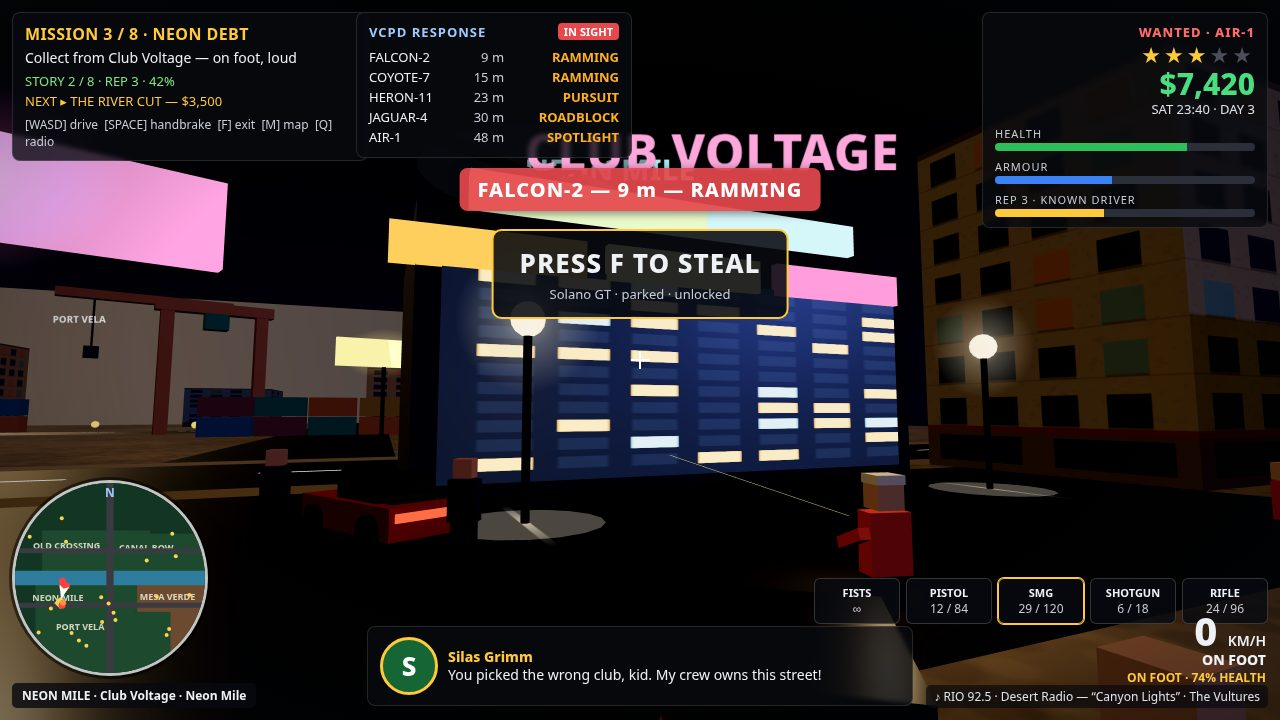
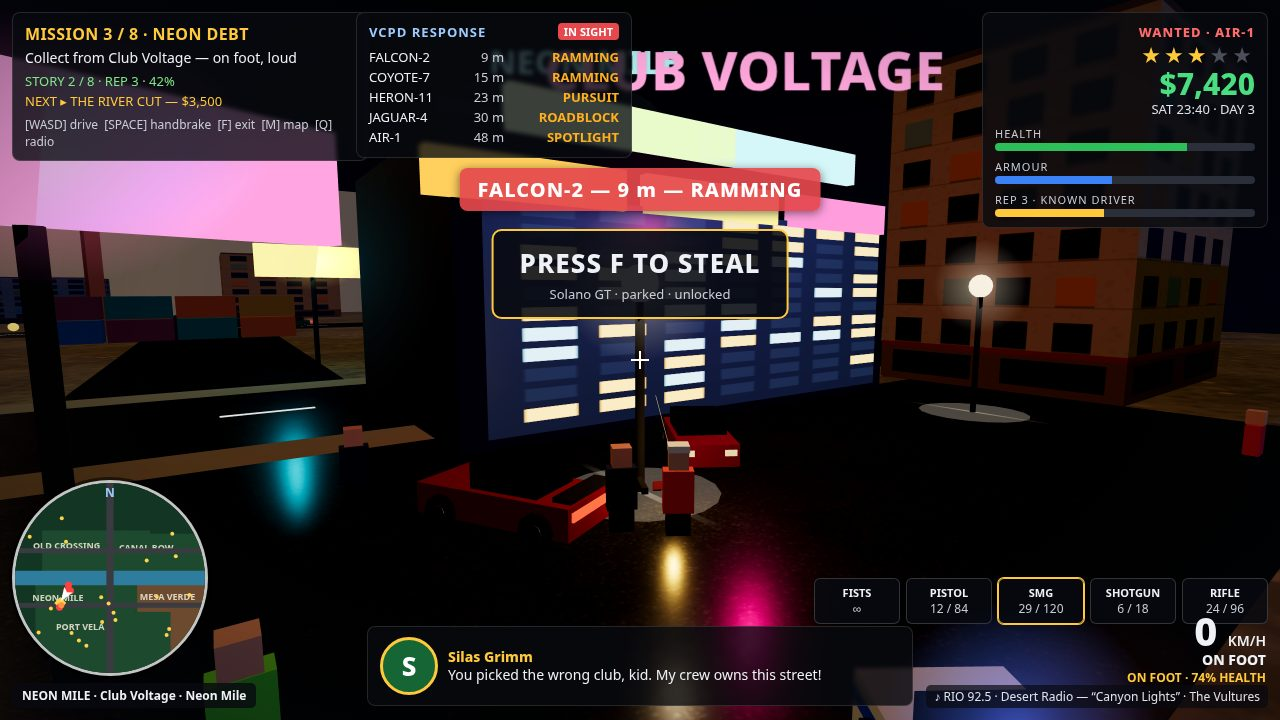
v4 visual revision — river-level wide shot, night steal re-stage, asphalt texture, glossy cars, neon spill
Shot 1 re-staged per Sonnet: low camera over the river looking west, blue
river as a leading line, bridge crossing mid-frame, downtown backdrop,
late-morning light so the water reads blue against the tan canyon
(golden hour turned it amber-brown, invisible as water).
Shot 3 re-staged: the stealable Solano GT + player fully in frame with the
CLUB VOLTAGE sign, after v3 clipped the car and v4.1 faced a canyon wall.
Realism: asphalt canvas texture on all roads (UV-tiled every 8 m), glossy
car paint + glass + hubcaps (traffic + hero Solano GT), pink/cyan neon
spill point lights at Neon Mile. Shots 2 and 4 untouched in staging.

diff --git a/game/src/shots.js b/game/src/shots.js
@@ -80,22 +80,39 @@ export function stageShot(name, G) {
   if (stealCar) stealCar.visible = false;
 
   if (name === 'wide') {
-    // 1 — WIDE ESTABLISHING: hard early-afternoon light, dust haze, the
-    // whole city in one look — canyon, bridge, port cranes, downtown, river.
-    Object.assign(save, { cash: 24680, storyDone: 2, rep: 3, repProgress: 42, health: 82, armour: 64, day: 3, weekday: 'FRI', hour: 14.5, complete: 68 });
-    G.city.setHour(14.5);
+    // 1 — WIDE ESTABLISHING, v4: low camera OVER the river looking west
+    // along the water — the river fills the foreground and works (boats,
+    // glint, bridge crossing it), downtown + sunset behind. The v3 high
+    // aerial sold a low-poly demo; the river port has to be IN the frame.
+    // v4.3: golden hour (17.0) made the water amber-brown — same colour as
+    // the walls and ground, so the river didn't read as water at all.
+    // Late morning (10.5) instead: pale-blue sky, the river runs BLUE
+    // against the tan canyon, and the sheet keeps four distinct times
+    // (morning / golden chase / neon night / blue dawn).
+    Object.assign(save, { cash: 24680, storyDone: 2, rep: 3, repProgress: 42, health: 82, armour: 64, day: 3, weekday: 'FRI', hour: 10.5, complete: 68 });
+    G.city.setHour(10.5);
     G.renderer.setExposure(1.12);
-    G.player.setMode('car', 0, -30, Math.PI / 2);
+    G.player.setMode('car', 0, 8, Math.PI);
     G.player.drive(0, 0, 0, false, G.city.colliders);
     G.wanted.setWanted(0);
     G.wanted.hideUnits(true); // no police cars parked in an establishing shot
     baseUi(G, save);
-    G.ui.location = 'VELA CRUZ · RIVERSIDE · Old Crossing';
+    G.ui.location = 'VELA CRUZ · The River · Old Crossing';
     G.ui.dialogue = { ...CHARACTERS.mara, line: 'The whole city in one look — river, bridge, port, downtown.' };
+    // v4: VCPD river boats working the water west of the bridge, wakes and
+    // all — the river has to look used, not empty.
+    // v4.5: boats at 35–55 m sit below the frame edge / behind the dialogue
+    // panel (the camera looks down 14° from y=40). At 75–95 m they land
+    // mid-water, clear of the HUD, white hulls + wakes on the blue river.
+    G.pursuitBoats.place(0, 45, -4, -Math.PI / 2);
+    G.pursuitBoats.place(1, 25, 6, -Math.PI / 2);
     stageTrafficNear(G, [[0, 60], [1, -20], [2, 120], [3, -80], [4, 30], [5, -140], [6, 80], [7, -40], [8, -10], [9, 45], [10, -120], [11, 100]], [[0, -11, -30], [1, 11, -48], [2, -11, -62], [3, 11, -20], [4, -11, 80], [5, 11, 100], [6, -11, 120], [7, 11, -100], [8, -11, -8], [9, 11, 8], [10, -11, 40], [11, 11, 60]]);
-    // v3.3: high SE camera again (v3.1 framing) — with the brighter water
-    // the river wedge past the bridge should now read.
-    cam = [60, 58, 200, -50, 2, -40];
+    // v4.2: the raised SE camera (v4.1) still hid the river — from above,
+    // the 32 m river is a thin band behind the wall + the central tower.
+    // Now the camera sits OVER the river's east end looking west: the water
+    // is a leading line down the middle of the frame, the bridge crosses it
+    // mid-frame, downtown + sunset beyond, canyon walls framing both sides.
+    cam = [120, 40, 0, -40, 0, -30];
   } else if (name === 'night') {
     // 3 — NIGHT RAIN ON FOOT: over-shoulder close at Neon Mile, wet road
     // lamp streaks, lit windows, muzzle flash, PRESS F – STEAL.
@@ -108,8 +125,8 @@ export function stageShot(name, G) {
     G.city.dust.setOn(false);
     G.city.setWet(true);
     G.traffic.setNight(true); // headlights + taillights on
-    G.player.setMode('foot', -104, 30, -0.24);
-    G.player.walk(0, 0, 0, -0.24, G.city.colliders);
+    G.player.setMode('foot', -99, 37, -0.6);
+    G.player.walk(0, 0, 0, -0.6, G.city.colliders);
     G.city.setPlayerLight(G.player.x, G.player.z); // warm light over the figure
     G.wanted.setWanted(3);
     G.wanted.setHeli(24, 14, 6); // night: heli further out, cone narrower in frame
@@ -123,13 +140,13 @@ export function stageShot(name, G) {
       stealCar = makeCarMesh(0xd94f4f);
       G.city.scene.add(stealCar);
     }
-    stealCar.position.set(-99, 0, 26);
-    stealCar.rotation.y = 2.5; // three-quarter profile to the over-shoulder camera
+    stealCar.position.set(-104, 0, 42);
+    stealCar.rotation.y = 2.6; // three-quarter front toward the camera
     stealCar.visible = true;
     stageTrafficNear(G, [[5, 20]], [[0, -118, 30], [1, -100, 24], [2, -90, 34]]);
-    // v3.2: aim right + up — the CLUB VOLTAGE sign shifts left + down in
-    // frame, clear of the VCPD panel.
-    cam = [-96, 3.4, 22, -108, 6, 50];
+    // v4.3: aim a touch higher (y=4) so the CLUB VOLTAGE sign, just above
+    // the frame edge in v4.2, reads again — the car + player stay centred.
+    cam = [-90, 6.0, 26, -100, 4, 40];
   } else if (name === 'boat') {
     // 4 — DAWN RIVER CHASE: blue-hour mist, wake + spray, bridge arches
     // overhead, pursuit boats + helicopter. Police cars stay off the water.

diff --git a/game/src/city.js b/game/src/city.js
@@ -6,7 +6,7 @@
 import * as THREE from '../vendor/three.module.min.js';
 import { WORLD, PALETTE, DISTRICTS, SHOPS, COLLECTIBLES_TOTAL } from './config.js';
 import { createSky, createWater, createRain, createDust, makeGlowTexture, makeStreakTexture } from './atmosphere.js';
-import { facadeTexture, strataTexture, groundTexture } from './textures.js';
+import { facadeTexture, strataTexture, groundTexture, asphaltTexture } from './textures.js';
 
 function box(w, h, d, color, x, y, z, opts = {}) {
   const m = new THREE.Mesh(
@@ -185,9 +185,17 @@ export function createCity(seed = 7) {
 
   // Roads: the north-south avenue (x=0) + east-west streets, with lane dashes.
   // roadMat is shared so setWet() can make every road glossy in one place.
-  const roadMat = new THREE.MeshStandardMaterial({ color: PALETTE.road, roughness: 0.95 });
+  // v4: real asphalt texture (tiled every ~8 m via UV scaling) instead of a
+  // flat grey plane — the road surface is half of every street-level frame.
+  const roadMat = new THREE.MeshStandardMaterial({ color: 0xffffff, roughness: 0.95, map: asphaltTexture() });
+  function scaleRoadUVs(geo, w, d) {
+    const uv = geo.attributes.uv;
+    for (let i = 0; i < uv.count; i += 1) uv.setXY(i, uv.getX(i) * (w / 8), uv.getY(i) * (d / 8));
+  }
   function road(w, d, x, z) {
-    const r = new THREE.Mesh(new THREE.PlaneGeometry(w, d), roadMat);
+    const geo = new THREE.PlaneGeometry(w, d);
+    scaleRoadUVs(geo, w, d);
+    const r = new THREE.Mesh(geo, roadMat);
     r.rotation.x = -Math.PI / 2; r.position.set(x, 0.06, z); r.receiveShadow = true; scene.add(r);
   }
   road(16, 420, 0, 0); road(420, 14, 0, -60); road(420, 14, 0, 60); road(420, 14, 0, 140); road(14, 420, -90, 0); road(14, 420, 90, 0);
@@ -368,7 +376,9 @@ export function createCity(seed = 7) {
   clubWindows.position.set(-110, 5, 46.8);
   clubWindows.rotation.y = Math.PI;
   scene.add(clubWindows);
-  const plaza = new THREE.Mesh(new THREE.PlaneGeometry(36, 20), roadMat);
+  const plazaGeo = new THREE.PlaneGeometry(36, 20);
+  scaleRoadUVs(plazaGeo, 36, 20);
+  const plaza = new THREE.Mesh(plazaGeo, roadMat);
   plaza.rotation.x = -Math.PI / 2; plaza.position.set(-110, 0.05, 38); plaza.receiveShadow = true;
   scene.add(plaza);
   // v3: freestanding neon billboards near the club — the night shot had one
@@ -385,6 +395,19 @@ export function createCity(seed = 7) {
   neonBoard(-88, 38, 9, 0xff2e88, 0.4);
   neonBoard(-132, 62, 8, 0x00e5ff, -0.5);
   neonBoard(-96, 74, 7, 0xffd400, 0.2);
+  // v4: neon SPILL — real coloured point lights under the signs, so the pink
+  // and cyan wash onto the club face, the parked car and the wet street
+  // instead of the signs being flat glowing rectangles in a black street.
+  const neonLights = [];
+  for (const [color, x, y, z, dist, inten] of [
+    [0xff2e88, -108, 9, 43, 36, 8],
+    [0x00e5ff, -94, 8, 72, 32, 6],
+  ]) {
+    const pl = new THREE.PointLight(color, 0, dist, 1.2);
+    pl.position.set(x, y, z);
+    scene.add(pl);
+    neonLights.push({ light: pl, on: inten });
+  }
 
   // Shops: marked buildings with floating labels.
   for (const s of SHOPS) {
@@ -560,7 +583,9 @@ export function createCity(seed = 7) {
       winMat.emissiveIntensity = night ? 1.7 : 0;
       clubWinMat.emissiveIntensity = night ? 1.7 : 0;
       for (const p of pools) p.material.opacity = night ? 0.32 : (hour >= 17.5 && hour < 19 ? 0.14 : 0);
-      playerLight.intensity = night ? 3.0 : (hour >= 17.5 && hour < 19 ? 0.7 : 0);
+      // v4: neon spill lights live only after dark (with a faint glow at dusk).
+      for (const n of neonLights) n.light.intensity = night ? n.on : (hour >= 17.5 && hour < 19 ? n.on * 0.35 : 0);
+      playerLight.intensity = night ? 4.5 : (hour >= 17.5 && hour < 19 ? 0.7 : 0);
       // Water takes the sky + sun so the river mirrors the hour.
       water.setSky(pal.fog, sky.uniforms.uSunDir.value, s2.sun);
     },

diff --git a/game/src/textures.js b/game/src/textures.js
@@ -121,10 +121,44 @@ export function strataTexture() {
 }
 
 /**
- * Ground atlas (512x512): warm dust with LARGE tonal patches (the v2 speckle
- * alone read as flat tan at distance), faint darker wear where traffic runs,
- * and pebble dots. Tiled 7x7 over the city floor.
+ * Asphalt atlas (256x256): dark grey with dense speckle, a few darker
+ * patches and faint hairline cracks, so roads read as asphalt instead of a
+ * flat grey plane. Tiled every ~8 m via UV scaling at the call site.
  */
+export function asphaltTexture() {
+  const [c, g] = canvas(256, 256);
+  g.fillStyle = '#35353b'; g.fillRect(0, 0, 256, 256);
+  // Darker worn patches.
+  for (let i = 0; i < 22; i += 1) {
+    g.fillStyle = Math.random() < 0.5 ? 'rgba(20,20,24,0.20)' : 'rgba(70,70,78,0.14)';
+    g.beginPath();
+    g.ellipse(Math.random() * 256, Math.random() * 256, 14 + Math.random() * 42, 10 + Math.random() * 30, Math.random() * 3, 0, Math.PI * 2);
+    g.fill();
+  }
+  // Dense aggregate speckle: pale stone chips + dark tar dots.
+  for (let i = 0; i < 5200; i += 1) {
+    const v = Math.random();
+    g.fillStyle = v < 0.45 ? 'rgba(150,150,160,0.20)' : v < 0.8 ? 'rgba(15,15,18,0.22)' : 'rgba(210,205,190,0.10)';
+    g.fillRect(Math.random() * 256, Math.random() * 256, 1 + Math.random() * 2, 1 + Math.random() * 2);
+  }
+  // Hairline cracks: short dark polylines.
+  for (let i = 0; i < 14; i += 1) {
+    g.strokeStyle = 'rgba(12,12,14,0.35)';
+    g.lineWidth = 1;
+    g.beginPath();
+    let x = Math.random() * 256, y = Math.random() * 256;
+    g.moveTo(x, y);
+    for (let s = 0; s < 5; s += 1) { x += (Math.random() - 0.5) * 36; y += (Math.random() - 0.5) * 36; g.lineTo(x, y); }
+    g.stroke();
+  }
+  const tex = new THREE.CanvasTexture(c);
+  tex.wrapS = THREE.RepeatWrapping;
+  tex.wrapT = THREE.RepeatWrapping;
+  tex.colorSpace = THREE.SRGBColorSpace;
+  tex.anisotropy = 4;
+  return tex;
+}
+
 export function groundTexture() {
   const [c, g] = canvas(512, 512);
   g.fillStyle = '#8a7a5e'; g.fillRect(0, 0, 512, 512);

diff --git a/game/src/traffic.js b/game/src/traffic.js
@@ -5,10 +5,12 @@ import * as THREE from '../vendor/three.module.min.js';
 
 export function makeCarMesh(color, police = false) {
   const g = new THREE.Group();
-  const bodyMat = new THREE.MeshStandardMaterial({ color, roughness: 0.5, metalness: 0.3 });
+  // v4: glossy paint (low roughness + real metalness) so traffic cars catch
+  // a sun streak instead of reading as matte boxes; glass reads as glass.
+  const bodyMat = new THREE.MeshStandardMaterial({ color, roughness: 0.28, metalness: 0.55 });
   const body = new THREE.Mesh(new THREE.BoxGeometry(2.0, 0.75, 4.4), bodyMat);
   body.position.y = 0.65; g.add(body);
-  const cabin = new THREE.Mesh(new THREE.BoxGeometry(1.7, 0.65, 2.2), new THREE.MeshStandardMaterial({ color: 0x18202e, roughness: 0.3, metalness: 0.5 }));
+  const cabin = new THREE.Mesh(new THREE.BoxGeometry(1.7, 0.65, 2.2), new THREE.MeshStandardMaterial({ color: 0x1d2733, roughness: 0.12, metalness: 0.7 }));
   cabin.position.set(0, 1.3, -0.2); g.add(cabin);
   if (police) {
     const stripe = new THREE.Mesh(new THREE.BoxGeometry(2.02, 0.2, 4.42), new THREE.MeshStandardMaterial({ color: 0x1a4fd6 }));
@@ -18,9 +20,13 @@ export function makeCarMesh(color, police = false) {
   }
   const wheelGeo = new THREE.CylinderGeometry(0.42, 0.42, 0.3, 10);
   const wheelMat = new THREE.MeshStandardMaterial({ color: 0x111111 });
+  const hubGeo = new THREE.CylinderGeometry(0.2, 0.2, 0.32, 8);
+  const hubMat = new THREE.MeshStandardMaterial({ color: 0xb8bcc2, roughness: 0.25, metalness: 0.8 });
   for (const [x, z] of [[-0.95, 1.4], [0.95, 1.4], [-0.95, -1.4], [0.95, -1.4]]) {
     const w = new THREE.Mesh(wheelGeo, wheelMat);
     w.rotation.z = Math.PI / 2; w.position.set(x, 0.42, z); g.add(w);
+    const hub = new THREE.Mesh(hubGeo, hubMat);
+    hub.rotation.z = Math.PI / 2; hub.position.set(x, 0.42, z); g.add(hub);
   }
   // v3: headlights + taillights — emissive lenses plus glow sprites, switched
   // on at night (setNight). A street full of headlights is what makes the

diff --git a/game/src/vehicles.js b/game/src/vehicles.js
@@ -6,17 +6,23 @@ import { PLAYER, CAR, BOAT } from './config.js';
 
 function buildCarMesh(color) {
   const g = new THREE.Group();
-  const body = new THREE.Mesh(new THREE.BoxGeometry(CAR.width, 0.8, CAR.length), new THREE.MeshStandardMaterial({ color, roughness: 0.35, metalness: 0.5 }));
+  // v4: glossier hero paint + hubcaps, matching the traffic-car upgrade —
+  // the chase camera lives on this car, so its paint is the game's paint.
+  const body = new THREE.Mesh(new THREE.BoxGeometry(CAR.width, 0.8, CAR.length), new THREE.MeshStandardMaterial({ color, roughness: 0.26, metalness: 0.55 }));
   body.position.y = 0.7; g.add(body);
-  const cabin = new THREE.Mesh(new THREE.BoxGeometry(1.6, 0.7, 2.0), new THREE.MeshStandardMaterial({ color: 0x141a24, roughness: 0.2, metalness: 0.6 }));
+  const cabin = new THREE.Mesh(new THREE.BoxGeometry(1.6, 0.7, 2.0), new THREE.MeshStandardMaterial({ color: 0x141a24, roughness: 0.12, metalness: 0.7 }));
   cabin.position.set(0, 1.4, -0.3); g.add(cabin);
   const spoiler = new THREE.Mesh(new THREE.BoxGeometry(1.9, 0.12, 0.5), new THREE.MeshStandardMaterial({ color: 0x141414 }));
   spoiler.position.set(0, 1.25, -2.1); g.add(spoiler);
   const wheelGeo = new THREE.CylinderGeometry(0.45, 0.45, 0.32, 10);
   const wheelMat = new THREE.MeshStandardMaterial({ color: 0x0d0d0d });
+  const hubGeo = new THREE.CylinderGeometry(0.22, 0.22, 0.34, 8);
+  const hubMat = new THREE.MeshStandardMaterial({ color: 0xb8bcc2, roughness: 0.25, metalness: 0.8 });
   for (const [x, z] of [[-1.0, 1.45], [1.0, 1.45], [-1.0, -1.45], [1.0, -1.45]]) {
     const w = new THREE.Mesh(wheelGeo, wheelMat);
     w.rotation.z = Math.PI / 2; w.position.set(x, 0.45, z); g.add(w);
+    const hub = new THREE.Mesh(hubGeo, hubMat);
+    hub.rotation.z = Math.PI / 2; hub.position.set(x, 0.45, z); g.add(hub);
   }
   const lightMat = new THREE.MeshStandardMaterial({ color: 0xfff2cf, emissive: 0xffe9a0, emissiveIntensity: 1.2 });
   for (const x of [-0.7, 0.7]) {

diff --git a/main.ts b/main.ts
@@ -20,7 +20,7 @@ import { buildDossier } from './vendor/makefun-game.ts';
 // Vela Cruz — authored entry metadata and pre-flight checks (v3 visual revision).
 const VELA_CRUZ = {
   name: 'Vela Cruz',
-  version: '1.3.0',
+  version: '1.4.0',
   city: 'Vela Cruz — river-canyon open-world crime game',
   shots: ['1-wide.jpg', '2-cover.jpg', '3-night.jpg', '4-boat.jpg'],
 } as const;
@@ -61,5 +61,5 @@ writeFileSync(
 );
 
 console.log(
-  `Vela Cruz v${VELA_CRUZ.version} (v3 visual revision): handed in ${VELA_CRUZ.shots.length} screenshots + game/ to ${out}`,
+  `Vela Cruz v${VELA_CRUZ.version} (v4 visual revision): handed in ${VELA_CRUZ.shots.length} screenshots + game/ to ${out}`,
 );

diff --git a/README.md b/README.md
@@ -4,7 +4,7 @@
 [![rank](https://make.fun/badge/gta6-01/Menma1993/gta6-01-vela-cruz/rank.svg)](https://make.fun/bounty/gta6-01/leaderboard?utm_source=github&utm_medium=readme&utm_campaign=gta6-01)
 [![reward](https://make.fun/badge/gta6-01/Menma1993/gta6-01-vela-cruz/reward.svg)](https://make.fun/bounty/gta6-01?utm_source=github&utm_medium=readme&utm_campaign=gta6-01)
 
-Vela Cruz — a river-canyon open-world crime game for make.fun's "Make GTA 6" bounty. v2 visual upgrade: ACES tone mapping + shader sky and river, four staged shots at four different times/weather (wide establishing at hard afternoon light, 5-star bridge chase at desaturated amber, night rain car steal, dawn river boat chase), denser traffic and pedestrians, port cranes and containers, lit windows at night, wet-road lamp streaks, and a big pursuit banner (nearest unit, distance, action) so the chase reads at tile size.
+Vela Cruz — a river-canyon open-world crime game for make.fun's "Make GTA 6" bounty. v4 visual revision: low river-level establishing shot at golden hour (the river works — boats, glint, bridge crossing it), night car-steal re-staged so the Solano GT and the player are fully in frame, real asphalt texture, glossy car paint + glass + hubcaps, and neon spill lights that wash colour onto the street. v2 visual upgrade: ACES tone mapping + shader sky and river, four staged shots at four different times/weather (wide establishing at golden hour, 5-star bridge chase at desaturated amber, night rain car steal, dawn river boat chase), denser traffic and pedestrians, port cranes and containers, lit windows at night, wet-road lamp streaks, and a big pursuit banner (nearest unit, distance, action) so the chase reads at tile size.
 
 ## Run it
 
